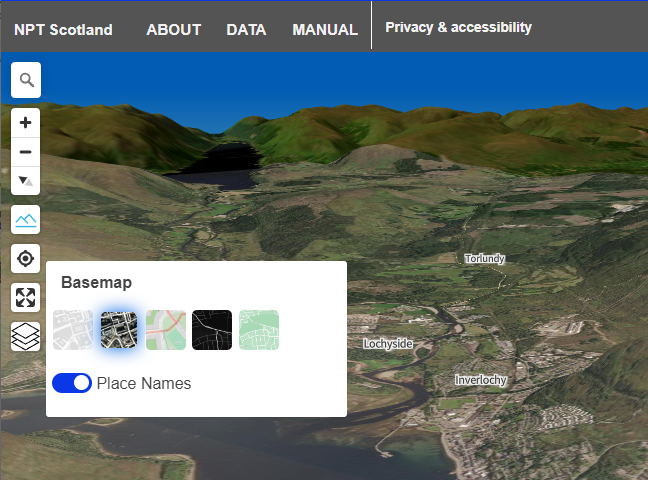
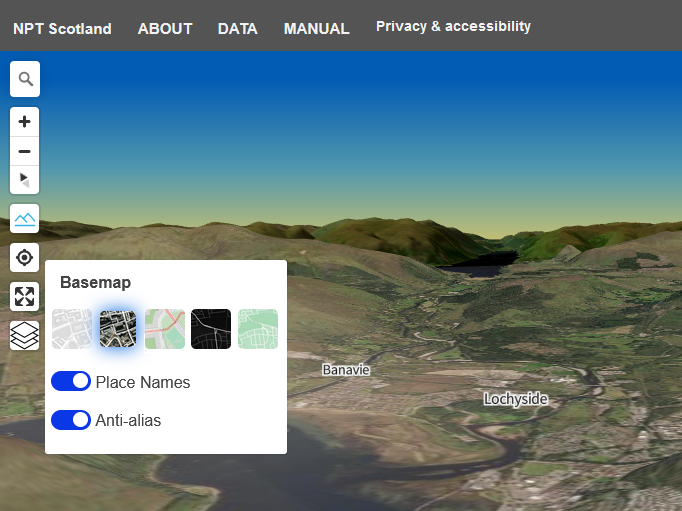
Update manual and UI

diff --git a/manual/index.html b/manual/index.html
@@ -110,6 +110,7 @@
 <p>&nbsp;</p>
 <p>The NPT provides different basemaps. The example below shows the basemap selection options with the satellite basemap with 3D terrain enabled. You can hide the basemap selection option by clicking the change basemap button again.</p>
 <p><img src="/images/basemaps.png" alt="Basemap controls" class="responsive" style="max-width:648px"></p>
+<p>The Anti-alias option enables advanced renering options that make the map look smoother and clearer. However perfomance on low-end devices may be impared when using anti-aliasing.</p>
 <h3 id="layer-controls">Layer Controls</h3>
 <p><img src="/images/layer_controls.png" alt="Layer Controls" class="responsive" style="max-width:808px"></p>
 <p>The layer controls on the right side of the map control what information is shown on the map.</p>
@@ -150,8 +151,8 @@
 <p>However, until such a safe & direct network is created, cyclists may make detours away from roads that are (or are perceived to be) dangerous. There is strong evidence that safety concerns are the main barrier to more people cycling.</p>
 <p>Cyclestreets calculate the routes taken by cyclists, and each network type is based on one of their routeing <a href="https://www.cyclestreets.net/help/journey/howitworks/">algorithms</a>. The route choices are based on the current road infrastructure and don&rsquo;t account for planned improvements or missing links.</p>
 <p><img src="/images/rnet_types.png" alt="Route network types" class="responsive" style="max-width:1393px"></p>
-<p>Examples of the four network types in Edinburgh show how different assumptions about the routes cyclists take affect where the busiest parts (pink) of the network are.</p>
-<p>Note that the choice of network type does not just change the routes cyclists take but also the number of cyclists predicted under each scenario.&nbsp;</p>
+<p>Examples of the two network types in Edinburgh show how different assumptions about the routes cyclists take affect where the busiest parts (pink) of the network are.</p>
+<p>Note that the choice of network type does not just change the routes cyclists take but also the number of cyclists predicted under each scenario. This is because quiter routes are typically longer and hillers than the direct route which discorages cycling.</p>
 <h5>Fast/Direct (preferred)</h5>
 <p>This network type should be treated as the default.</p>
 <p>The fastest network is based on cyclists taking the most direct (legal) routes. While cyclists prefer direct routes, this will often bring them onto busy and dangerous major roads, which are a barrier to cycling. Planners seeking to maximise cycling will build high-quality cycle infrastructure along busy roads, which form part of the fastest cycle route network.</p>
@@ -179,11 +180,12 @@
 <!-- 
 <h5>Balanced</h5>
 <p>The balanced network is a trade-off between the fastest and quietest networks. It highlights places where cycling and car networks can be separated without penalising directness too much. Planners should not view quiet or balanced networks as ways to avoid building high-quality cycle infrastructure. Instead, consider if moving the cycle infrastructure one street over may unlock qualitative benefits for cyclists, such as more pleasant journeys that are worth a small penalty in total journey time.</p>
--->
+
 <h5>EBikes</h5>
 <p>The ebikes network is a variant of the fastest network that reduces the penalty for going up hills. Pedal cyclists incur a significant time and effort penalty from going uphill. Hence, a longer but flatter route is often faster. A good ebike can enable cyclists to ride uphill at 15 mph without breaking a sweat. Thus ebike riders may choose shorter but hillier routes than pedal cyclists.</p>
 <p>As ebikes increase a cyclist&rsquo;s range and carrying capacity while reducing effort and journey times, a world with many ebikes would expect higher levels of cycling than one with only pedal cycles.</p>
 <p>&nbsp;</p>
+-->
 </div>
 
 <div id="scenario">
@@ -194,7 +196,9 @@
 <h5>Go Dutch</h5>
 <p>The Go Dutch scenario imagines a future where people in the UK are as likely to travel by bike as people in the Netherlands while accounting for differences in trip distance and hilliness between locations. As such, the network shows where there could be future demand for cycling infrastructure.</p>
 <p>Planners should seek to design cycle networks that meet the needs of both current and future cyclists. But they may phase the construction to prioritise roads that will meet the needs of current cyclists and enable new people to cycle.</p>
-<h5>Ebike &ndash; Coming soon</h5>
+<h5>EBikes</h5>
+<p>The ebikes scenario is a variant of the Go Dutch scenario that assumes mass uptake of ebikes. The scenarios alters both the assumptions around cycling uptake and the routes choices made by cyclists, for example a reduced penalty for going up hills. Pedal cyclists incur a significant time and effort penalty from going uphill. Hence, a longer but flatter route is often faster. A good ebike can enable cyclists to ride uphill at 15 mph without breaking a sweat. Thus ebike riders may choose shorter but hillier routes than pedal cyclists.</p>
+<p>As ebikes increase a cyclist&rsquo;s range and carrying capacity while reducing effort and journey times, a world with many ebikes would expect higher levels of cycling than one with only pedal cycles.</p>
 <p>&nbsp;</p>
 </div>
 
@@ -226,6 +230,12 @@
 <p>The average gradient of the road is shown as a percentage. Steeper roads are a barrier to cycling and affect route choice and the uptake of cycling in the scenarios.</p>
 </div>
 
+<div id="simplified_rnet">
+<h4>Simplified Route Network</h4>
+<p>The simplified toggle enables the simplified route network. Major road corridors can be complex with multiple carriageways, cycle paths, and footways. It can be confusing to judge overall demand if the cyclists are split across multiple overlapping routes. The simplified network attempts to address this problem by combining parallel routes into a single line. This is a complex progress and some information is inevitably lost in the simplification process. Therefore we suggest using the simplified and complete route networks together to judge cycling demand.</p>
+<p><img src="/images/simplified.png" alt="Simplified Network" class="responsive" style="max-width:645px"></p>
+</div>
+
 <h4>Popup</h4>
 <p>Clicking on any road in the route network shows the route network popup.</p>
 <p><img src="/images/rnet_popup.png" alt="Popup" class="responsive" style="max-width:645px"></p>
@@ -237,7 +247,7 @@
 <p>The sliders allow you to show/hide parts of the route network. You can filter on three variables:</p>
 <p>&nbsp;</p>
 <h4>Numbers of cyclists</h4>
-<p>This filter is only available when &ldquo;Line colour&rdquo; is set to a cycling scenario.</p>
+<p>This filter selects based on the current scenario and route type.</p>
 <h4>Gradient</h4>
 <p>Set the maximum and minimum gradient of roads that are visible. Gradient measures the average gradient of the road segment as a percentage. E.g. 0% = flat, 100% = vertical cliff.</p>
 <h4>Cycle friendliness</h4>
@@ -250,6 +260,8 @@
 <p><img src="/images/data_zones.png" alt="Data zones" class="responsive"></p>
 <p>The data zone options are:</p>
 <ul>
+    <li>% commuter cycling (baseline)</li>
+    <li>% commuter cycling (Go Dutch)</li>
     <li>Population density (per hectare)</li>
     <li>Index of Multiple Deprivation (2020)</li>
     <li>Drive time to a petrol station</li>
@@ -267,6 +279,19 @@
 <p>By default, the data zones are shown as a <a href="https://en.wikipedia.org/wiki/Dasymetric_map">dasymetric map</a>. This means that the buildings within a zone are coloured to display information. If you turn off dasymetric mode, a simple <a href="https://en.wikipedia.org/wiki/Choropleth_map">choropleth map</a> is shown where the whole Data Zone is coloured. Note that the same underlying data is being visualised in both modes, and the differences between modes are merely aesthetic. However, dasymetric maps are intended to better represent the data by emphasising the true locations of people who are not uniformly distributed across the Data Zone.&nbsp;</p>
 <p><img src="/images/dasymetric.png" alt="Dasymetric maps" class="responsive"></p>
 <p>Dasymetric map (left) and choropleth map (right) for the Index of Multiple Deprivation in Edinburgh.</p>
+
+<h4>Data Zone popup</h4>
+<p>Clicking on any Data Zone shows the popup report for that zone. Four graphs are presented</p>
+<h5>Commuters leaving</h5>
+<p>The bar chart shows estimated mode shares under different scenarios for commuters leaving this zone. (i.e they live here and commute to another zone).</p>
+<h5>Commuters arriving</h5>
+<p>The bar chart shows estimated mode shares under different scenarios for commuters arriving this zone. (i.e they work here and live in another zone).</p>
+<h5>Primary school children</h5>
+<p>The bar chart shows estimated mode shares under different scenarios for primary school childen that live in this zone.</p>
+<h5>Secondary school children</h5>
+<p>The bar chart shows estimated mode shares under different scenarios for secondary school childen that live in this zone.</p>
+
+
 </div>
 
 <div id="admin_bounds">
@@ -280,6 +305,9 @@
     <li>Local Authority</li>
 </ul>
 <p>&nbsp;</p>
+<h4>Schools popup</h4>
+<p>Clicking on any school shows the schools popup</p>
+<p></p>
 </div>
 
 

diff --git a/index.html b/index.html
@@ -136,8 +136,6 @@ Commuting patterns have changed since the pandemic, and not everyone commutes, t
     <label for="bm2"><img src="images/satellite_50.png" title="Satellite" loading="lazy"/></label>
   <input type="radio" id="bm3" value="opencyclemap" name="basemap"class="radio-inline"/>
     <label for="bm3"><img src="images/opencyclemap_50.png" title="OpenCycleMap" loading="lazy"/></label>
-  <!-- <input type="radio" id="bm4" value="CDRC_nobuild" name="basemap"class="radio-inline"/>
-    <label for="bm4"><img src="images/CDRC.PNG" title="CDRC"/></label> -->
   <input type="radio" id="bm5" value="dark_nobuild" name="basemap"class="radio-inline"/>
     <label for="bm5"><img src="images/dark.PNG" title="Dark" loading="lazy"/></label>
   <input type="radio" id="bm6" value="google_nobuild" name="basemap"class="radio-inline"/>
@@ -205,7 +203,7 @@ Commuting patterns have changed since the pandemic, and not everyone commutes, t
 	</div>
 	
 	
-	<p><label class="switch"><input type="checkbox" id="rnetsimplifiedcheckbox" onclick="switch_rnet()"><span class="slider round"></span></label> Simplified</p>
+	<p><label class="switch"><input type="checkbox" id="rnetsimplifiedcheckbox" onclick="switch_rnet()"><span class="slider round"></span></label> Simplified <button onclick="show_help('simplified_rnet')" aria-label="Help simplified route network" class="helpbutton"><i class="fa fa-question-circle" aria-hidden="true"></i></button></p>
  
   
 
@@ -229,45 +227,6 @@ Commuting patterns have changed since the pandemic, and not everyone commutes, t
   
   
 </div>
-
-<!--
-<button class="accordion">Zones</button>
-<div class="panel">
-  <p><label><input type="checkbox" id="zonescheckbox" value="false" onclick="toggleLayer('zones')">Show Layer</label></p>
-
-  <p>
-    <select id="zones_end_input" name="zones_end_input" onchange="switch_zones()" aria-label="Zone end">
-      <option value="orig" selected>Origins</option>
-      <option value="dest">Destinations</option>
-    </select>
-    Trip end <button onclick="show_help('ends')" aria-label="Help purpsose" class="helpbutton"><i class="fa fa-question-circle" aria-hidden="true"></i></button>
-  </p>
-  
-  <p>
-    <select id="zones_purpose_input" name="zones_purpose_input" onchange="switch_zones()" aria-label="Zone trip purpose">
-      <option value="commute" selected>Commute</option>
-    </select>
-    Trip purpose <button onclick="show_help('purpose')" aria-label="Help purpsose" class="helpbutton"><i class="fa fa-question-circle" aria-hidden="true"></i></button>
-  </p>
-  
-  <p>
-    <select id="zones_type_input" name="zones_type_input" onchange="switch_zones()" aria-label="Zone trip type">
-      <option value="fastest"selected>Fastest</option>
-    </select>
-    Network type <button onclick="show_help('type')" aria-label="Help type" class="helpbutton"><i class="fa fa-question-circle" aria-hidden="true"></i></button>
-  </p>
-  
-  <p>
-  <select id="zones_scenario_input" name="zones_scenario_input" onchange="switch_zones()" aria-label="Zone variable">
-      <option value="pcycle_baseline" selected>Baseline (2011)</option>
-      <option value="pcycle_godutch">Go Dutch</option>
-      <option value="quietness_mean">Quietness</option>
-      <option value="hilliness_mean">Gradient</option>
-  </select>
-  Variable <button onclick="show_help('scenario')" aria-label="Help scenario" class="helpbutton"><i class="fa fa-question-circle" aria-hidden="true"></i></button>
-  </p>
-</div>
--->
 
 <button class="accordion">Data Zones</button>
 <div class="panel">
@@ -353,7 +312,7 @@ Commuting patterns have changed since the pandemic, and not everyone commutes, t
 <div class="modal-content">
 <div class="modal-header">
     <span class="closemodal">&times;</span>
-    <div id="modal-title"><h2>Area Summary</h2></div>
+    <div id="zone-modal-title"><h2>ZOne Summary</h2></div>
 </div>
 <div class="modal-body">
 

diff --git a/js/modal.js b/js/modal.js
@@ -22,6 +22,7 @@ window.onclick = function(event) {
   }
 };
 
+
 // How map triggers the modal 
 // On click open modal
 map.on('click', 'data_zones', function(e) {
@@ -46,8 +47,7 @@ map.on('click', 'data_zones', function(e) {
         zonedata = json[0];
     })
       .done(function() {
-        //Hide Spinner
-        //$('#loader').hide();
+        document.getElementById("zone-modal-title").innerHTML = "<h2>Zone Summary: " + sub.DataZone + "</h2>";
         // Define Charts
   		  makeChartsModeshare(zonedata);
       })
@@ -80,8 +80,67 @@ makeChartsModeshare = function(sub){
 		secondaryOriginChart.destroy();
 	}
   
+  function createArray(prefix, suffixes) {
+    return suffixes.map(suffix => sub[prefix + suffix]);
+  }
+  
+  var suffixes = [
+    '', 
+    '_go_dutch_fastest',
+    '_ebike_fastest',
+    '_go_dutch_quietest',
+    '_ebike_quietest'
+  ];
+
+  // Commute Origin
+  var bicycle_comm_orig = createArray('comm_orig_bicycle', suffixes);
+  var foot_comm_orig = createArray('comm_orig_foot', suffixes);
+  var car_comm_orig = createArray('comm_orig_car', suffixes);
+  var public_transport_comm_orig = createArray('comm_orig_public_transport', suffixes);
+  var taxi_comm_orig = createArray('comm_orig_taxi', suffixes);
+  
+  // Commute Destination
+  var bicycle_comm_dest = createArray('comm_dest_bicycle', suffixes);
+  var foot_comm_dest = createArray('comm_dest_foot', suffixes);
+  var car_comm_dest = createArray('comm_dest_car', suffixes);
+  var public_transport_comm_dest = createArray('comm_dest_public_transport', suffixes);
+  var taxi_comm_dest = createArray('comm_dest_taxi', suffixes);
+  
+  /*
+  var suffixes = [
+    '', 
+    '_go_dutch_primary_fastest',
+    '_ebike_primary_fastest',
+    '_go_dutch_primary_quietest',
+    '_ebike_primary_quietest'
+  ];
+  
+  // Primary Orig
+  var bicycle_primary_orig = createArray('schl_orig_bicycle', suffixes);
+  var foot_primary_orig = createArray('schl_orig_foot', suffixes);
+  var car_primary_orig = createArray('schl_orig_car', suffixes);
+  var public_transport_primary_orig = createArray('schl_orig_public_transport', suffixes);
+  var other_primary_orig = createArray('schl_orig_other', suffixes);
+  
+  var suffixes = [
+    '', 
+    '_go_dutch_secondary_fastest',
+    '_ebike_secondary_fastest',
+    '_go_dutch_secondary_quietest',
+    '_ebike_secondary_quietest'
+  ];
+
+  // Secondary Orig
+  var bicycle_secondary_orig = createArray('schl_orig_bicycle', suffixes);
+  var foot_secondary_orig = createArray('schl_orig_foot', suffixes);
+  var car_secondary_orig = createArray('schl_orig_car', suffixes);
+  var public_transport_secondary_orig = createArray('schl_orig_public_transport', suffixes);
+  var other_secondary_orig = createArray('schl_orig_other', suffixes);
+  */
+  
   
   // Commute Origin
+  /*
   var bicycle_comm_orig = [
     sub.comm_orig_bicycle, 
     sub.comm_orig_bicycle_go_dutch_fastest,
@@ -164,6 +223,8 @@ makeChartsModeshare = function(sub){
     sub.comm_dest_taxi_ebike_quietest
     ];
     
+  */
+  
   // Primary Orig
   var bicycle_primary_orig = [
     sub.bicycle_primary, 
@@ -245,6 +306,7 @@ makeChartsModeshare = function(sub){
     sub.schl_orig_other_go_dutch_secondary_quietest,
     sub.schl_orig_other_ebike_secondary_quietest
     ];
+  
   
 
   var commuteOrigin_ctx = document.getElementById('commuteOriginChart').getContext('2d');

diff --git a/css/modal.css b/css/modal.css
@@ -23,7 +23,7 @@
   background-color: #fefefe;
   height: calc(100% - 60px);
   max-width: 1240px;
-  min-width: 90%;
+  /*min-width: 90%;*/
   overflow: scroll;
   -webkit-animation-name: slideIn;
   -webkit-animation-duration: 0.4s;
@@ -63,7 +63,7 @@
 }
 
 .modal-body {
-  padding: 0;
+  padding: 0 16px 8px 16px;
 }
 
 .modal-body:after {
